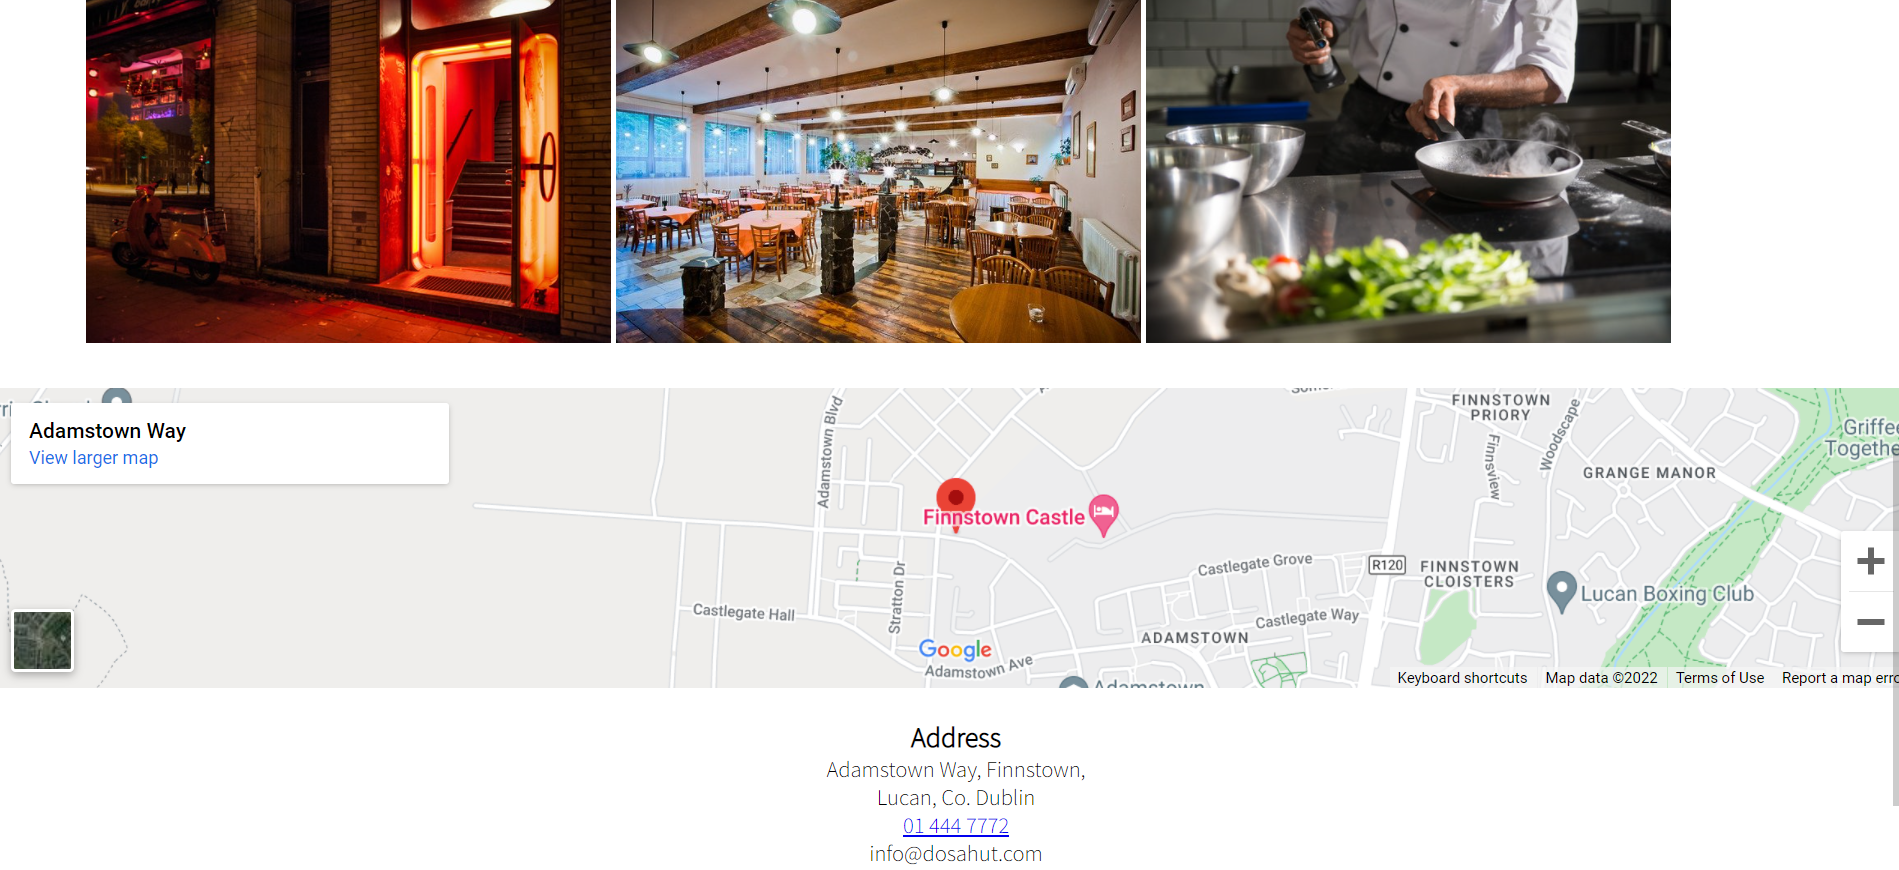
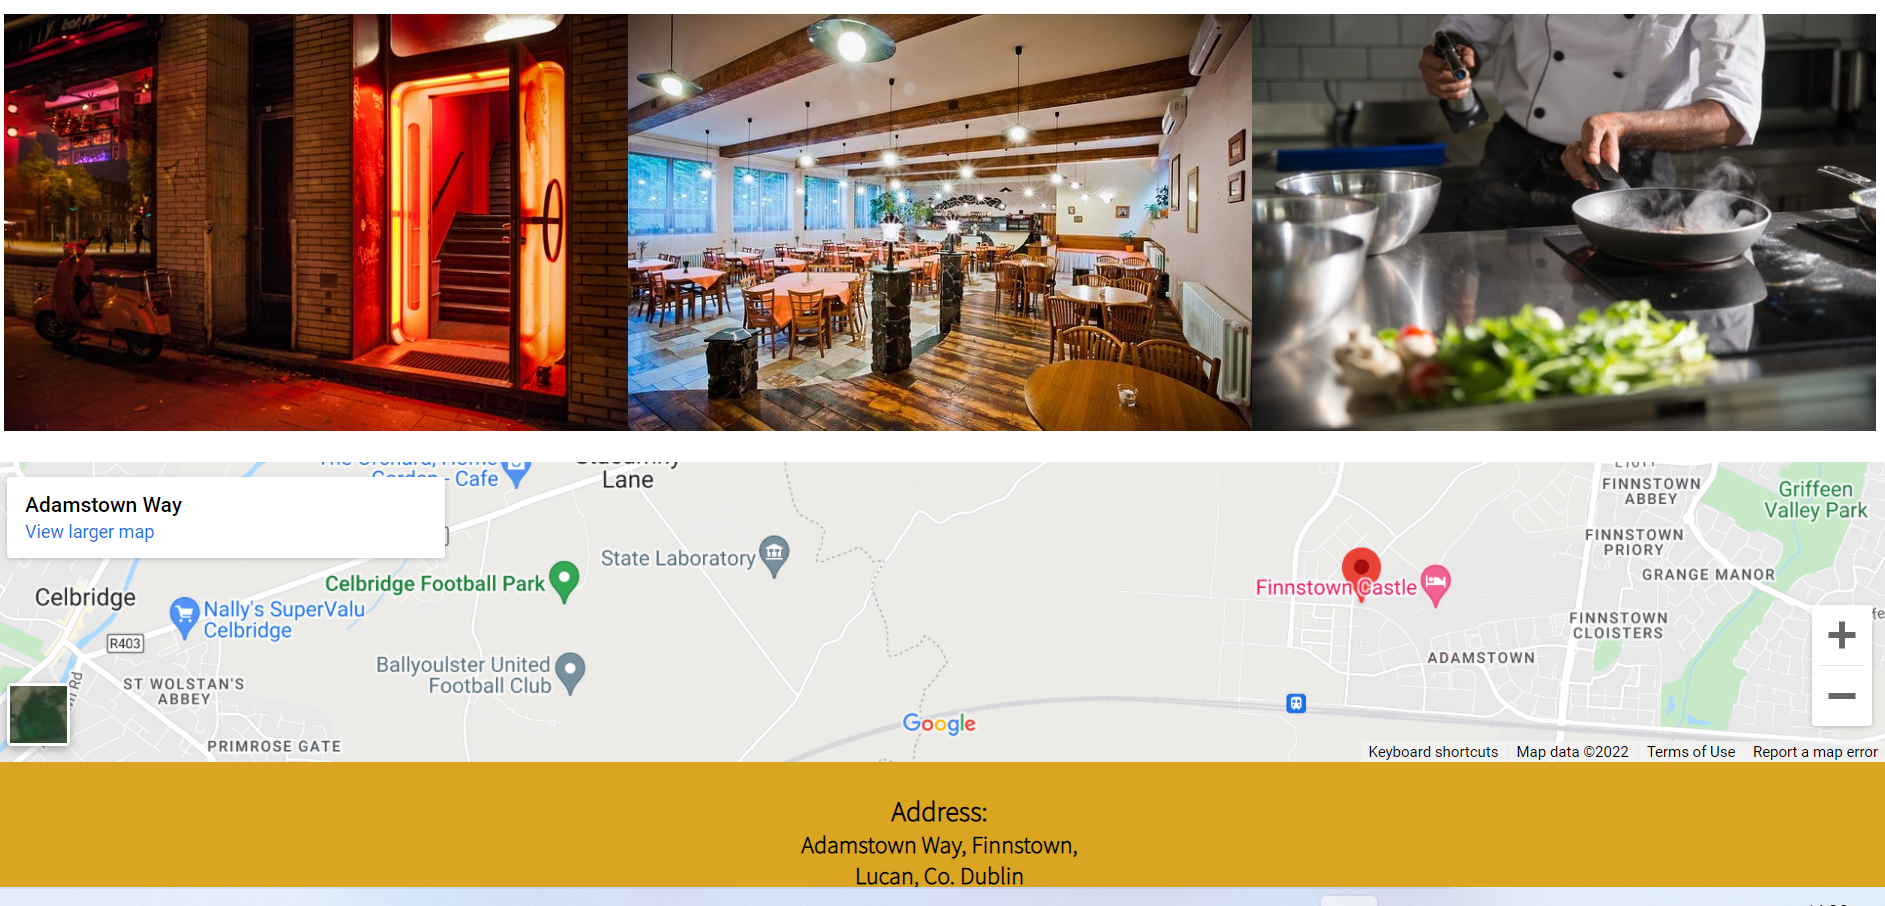
tidy up

diff --git a/assets/css/style.css b/assets/css/style.css
@@ -30,7 +30,7 @@ h2 {
   text-align: left;
   font-size: 280%;
   margin-top: 1px;
-  background-color: goldenrod;
+  background-color: rgb(218,165,32);
   text-decoration: none;
 }
 
@@ -47,7 +47,7 @@ h2 {
 }
 
 .background {
-  background-color: goldenrod;
+  background-color: rgb(218,165,32);
 }
 
 #menu {
@@ -86,7 +86,7 @@ h2 {
 footer {
   bottom: 0;
   height: auto;
-  background-color: goldenrod;
+  background-color: rgb(218,165,32);
   width: 100%;
 }
 
@@ -276,7 +276,7 @@ h2 {
 }
 
 .btn-contactus-submit {
-  background: goldenrod;
+  background: rgb(218,165,32);
   color: black;
   height: 30px;
   width: 100px;
@@ -527,7 +527,7 @@ h2 {
   }
   footer {
     bottom: 0;
-    background-color: goldenrod;
+    background-color: rgb(218,165,32);
     width: 100%;
   }
   #our-story-container {
@@ -638,7 +638,7 @@ h1 {
 }
 
 .book-table {
-  background: goldenrod;
+  background: rgb(218,165,32);
   color: black;
   height: 30px;
   width: 120px;

diff --git a/index.html b/index.html
@@ -90,9 +90,9 @@
             <img src="assets/images/samosa.jpg" alt="Samosa served in a paper" >
         </div>
         <div id="gallery3">
-            <img src="assets/images/parippu-vada.jpg" alt="Food served in copper vessels" >
-            <img src="assets/images/chicken-tikka.jpg" alt="Food served in kadai" >
-            <img src="assets/images/dosa5.jpeg" alt="Samosa served in a paper" >
+            <img src="assets/images/parippu-vada.jpg" alt="Parippu Vada" >
+            <img src="assets/images/chicken-tikka.jpg" alt="Chicken tikka with spices" >
+            <img src="assets/images/dosa5.jpeg" alt="Dosa served with chutneys" >
         </div>
     </div>
     <!--Footer-->

diff --git a/README.md b/README.md
@@ -34,20 +34,23 @@ Our chefs are experts in making all varieties of Indian foods, dosas in particul
     <ul>
       <li><strong>Colour Scheme</strong></li>
       <ol type="a">
-      <li>Colors used in the website are Goldenrod and Black.</li>
+      <li>Colors used in the website are Goldenrod(rgb - 218,165,32) and Black.</li>
       </ol> 
     </ul>
     <ul>
       <li><strong>Font</strong></li>
       <ol type="a">
-      <li>The font used are Playfair display as the primary font and Source sans pro as the secondary font.</li> 
+      <li>The font used are 'Playfair display' as the primary font and 'Source sans pro' as the secondary font.
+      </li> 
       </ol>
     </ul>
     <hr>
 
-   - # **Images**
-    <ul>
-    <li>All images for this website were downloaded from <a href="https://pixabay.com/">Pixabay</a></li> and <a href="https://www.pexels.com/">Pexels</a>
+  - # **Images**
+      All images for this website were downloaded from
+    <ul> 
+     <li><a href="https://pixabay.com/">Pixabay</a></li>
+     <li><a href="https://www.pexels.com/">Pexels</a></li>
     </ul>
     <hr>
 
@@ -59,44 +62,32 @@ Our chefs are experts in making all varieties of Indian foods, dosas in particul
   - [Site skeleton (wireframes)](#wireframes)
     [Balsamiq](https://balsamiq.com/) was used to create wireframes for the website.For this project, I created three
     different wireframes for three different devices. Balsamiq wireframe is used to create outline of the website.  
-    <hr> 
-
-  
+    <hr>
    
    # **Frameworks, Libraries & Programs Used**
   <ul>
-    <li><a href="https://fonts.google.com/">Google Fonts</a></li>
+    <li><a href="https://fonts.google.com/">Google Fonts</a> - Google fonts was used to import the fonts in the style.css which is used throughout the project.</li>
   </ul>
   <ul>
-  <li>Google fonts was used to import the fonts in the style.css which is used throughout the project.
-  </li>
+  <li><a href="https://fontawesome.com/">Font Awesome</a> - Font Awesome was used in the footer to navigate social media links which serves as a user-centered design.</li>
   </ul>
-  <ul>
-  <li><a href="https://fontawesome.com/">Font Awesome</a></li>
-  </ul>
-  <ul>
-  <li>Font Awesome was used in the footer to navigate social media links which serves as a user-centered design.</li>
-  </ul>
-<hr>
+  <hr>
 
 # **Testing**
 
-<ul>
-   <li>I tested this project works in different browsers like Chrome, Safari and Firefox
-   </li>
-   </ul>
-
-   <ul>
-   <li>I have confirmed that this project is responsive, looks good and functions on all devices. 
-   </li>
-   </ul>
-   <ul>
-   <li>
-   I have confirmed that the navigation,header,Home,Menu and contact us are all readable and understandable.</li>
-   </ul>
   <ul>
-  <li>I have confirmed that the form works,requires entries in every field.
-  </li>
+    <li>
+      I tested this website and it works in different browsers like Chrome, Safari and Firefox
+    </li>
+    <li>
+      I have confirmed that this project is responsive, looks good and functions on all devices such as Desktop, Laptop, Tablet and Mobile phones.
+    </li>
+    <li>
+      I have confirmed that the navigation,header,Home,Menu and contact us are all readable and understandable.
+    </li>
+    <li>
+      I have confirmed that the form works,requires entries in every field.
+    </li>
   </ul>
 
 ### Responsive Tools
@@ -110,6 +101,7 @@ In order to make sure that design web pages are responsive to all device sizes, 
 
 [W3C Markup](https://jigsaw.w3.org/css-validator/) was used to check for any errors within my CSS pages.
 ![Css](/assets/images/readme/css-validator.png "Css")
+
 
  # **Features**
 # **Navigation**
